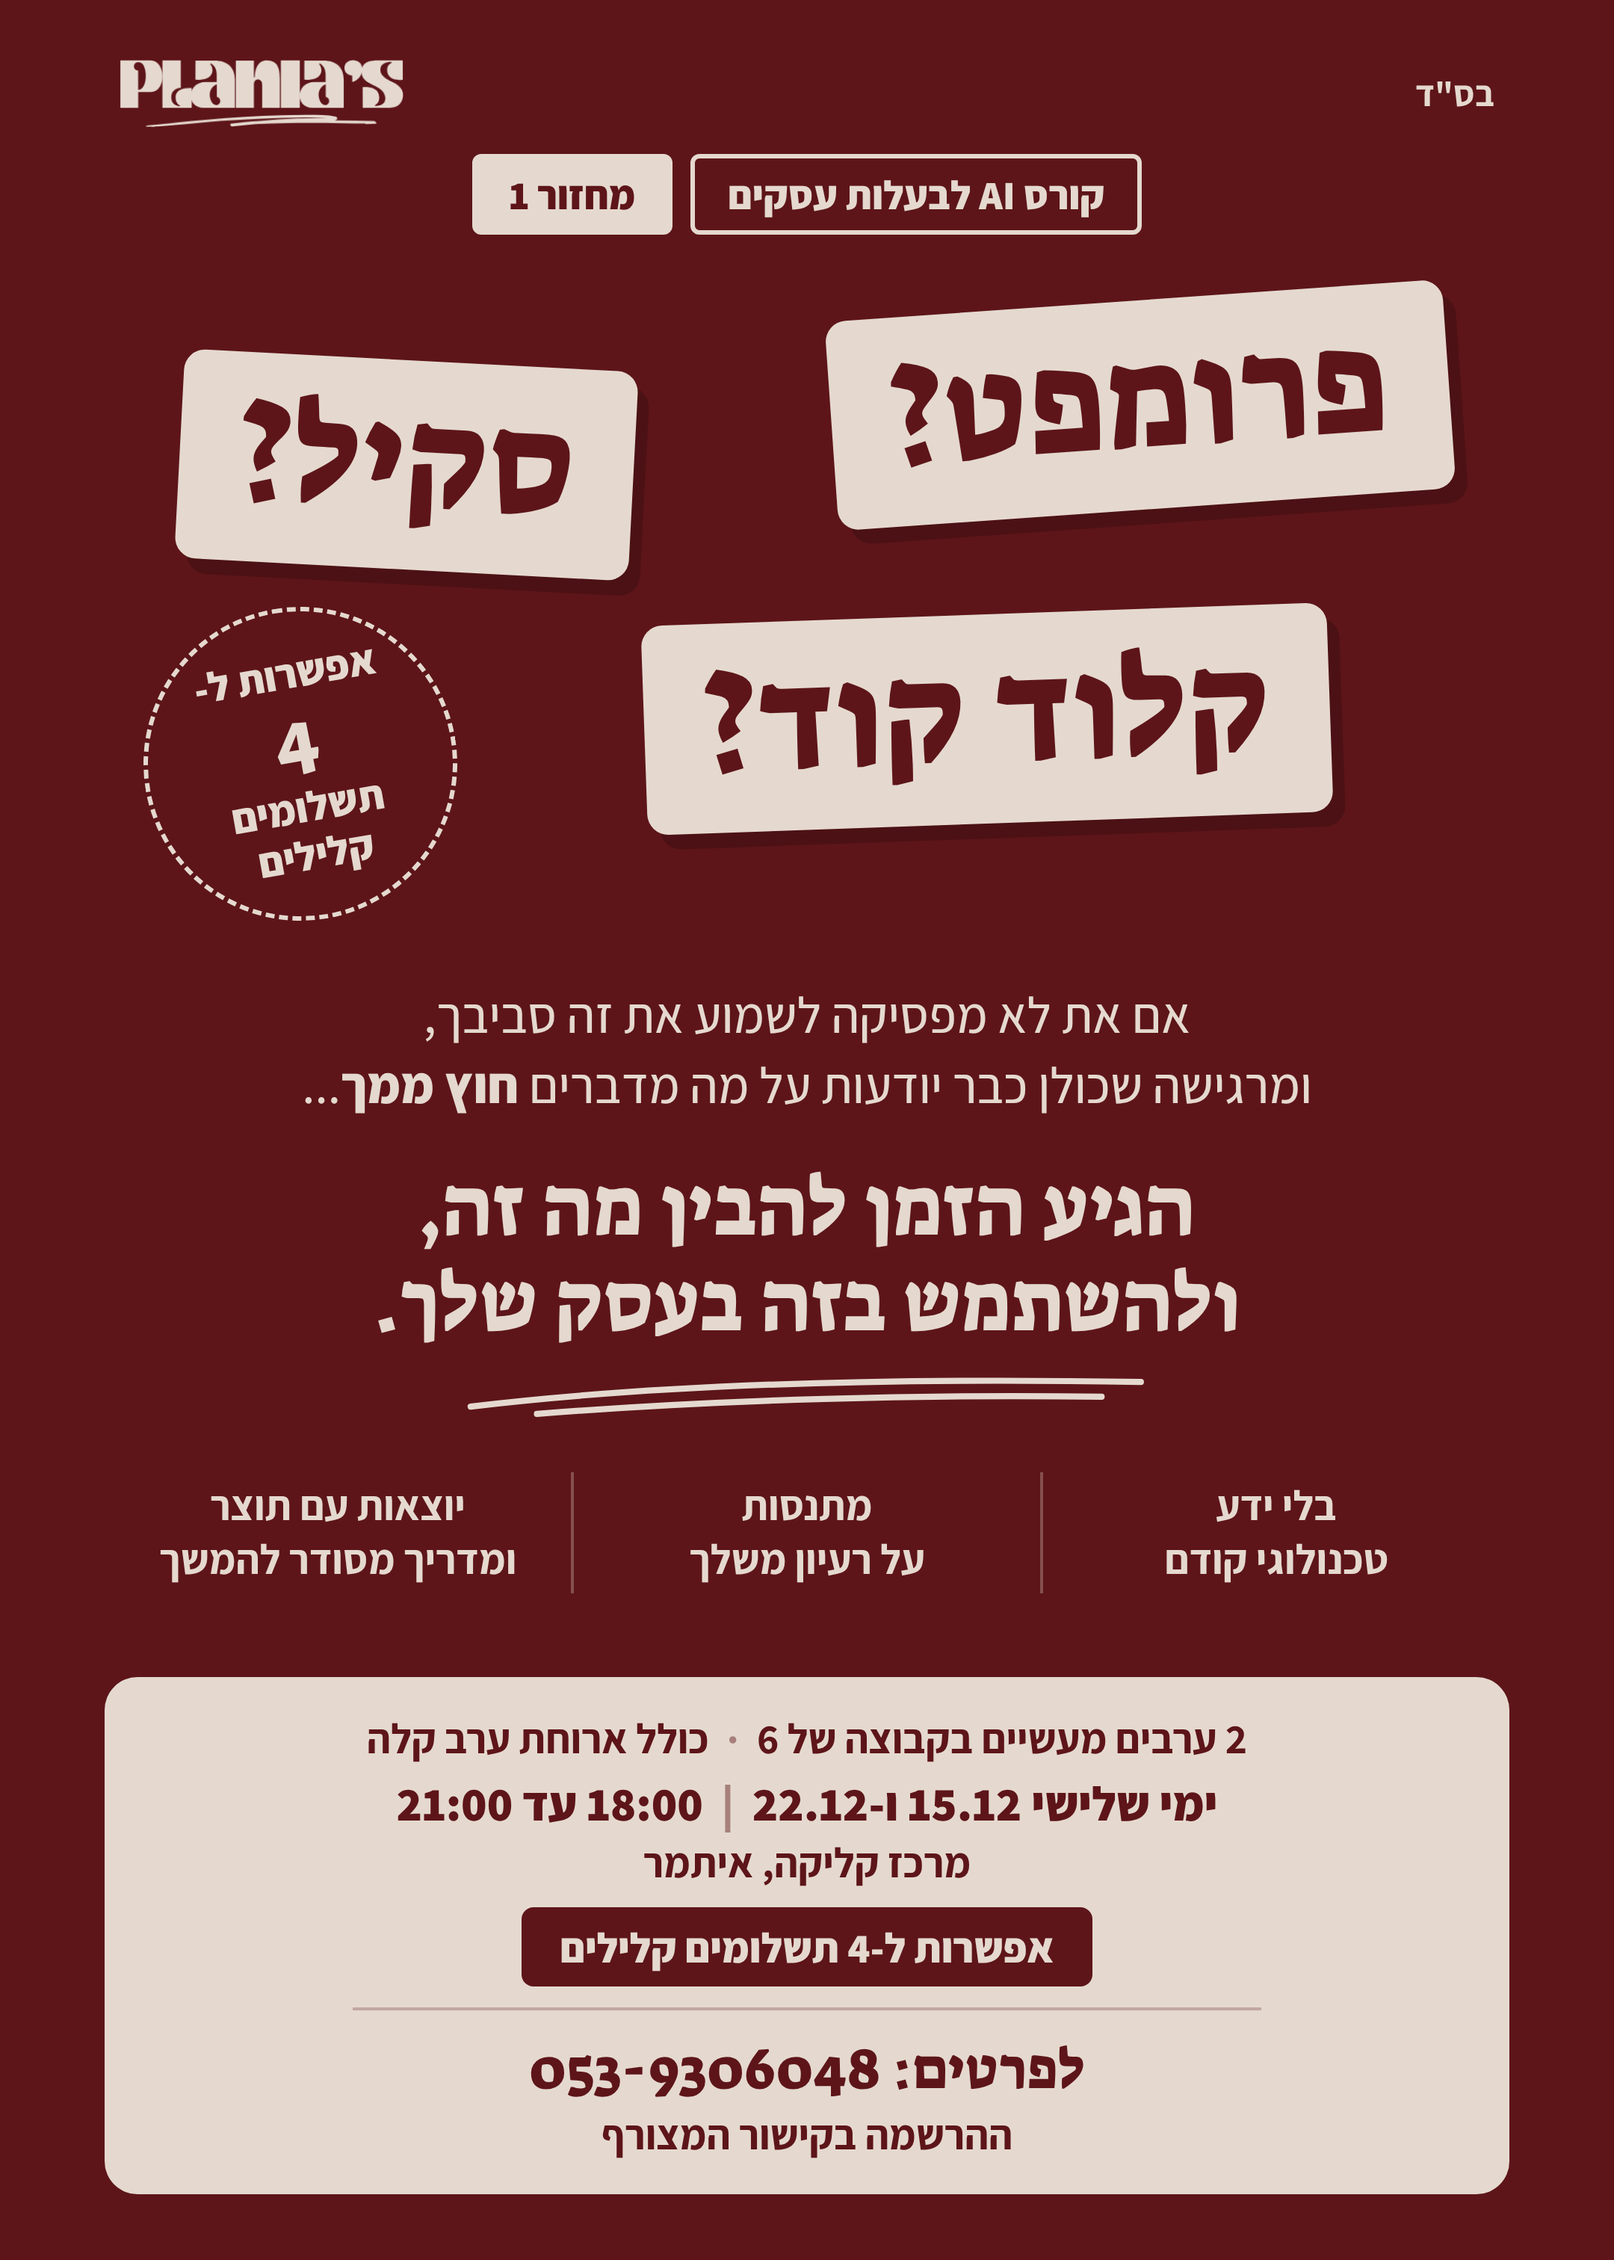
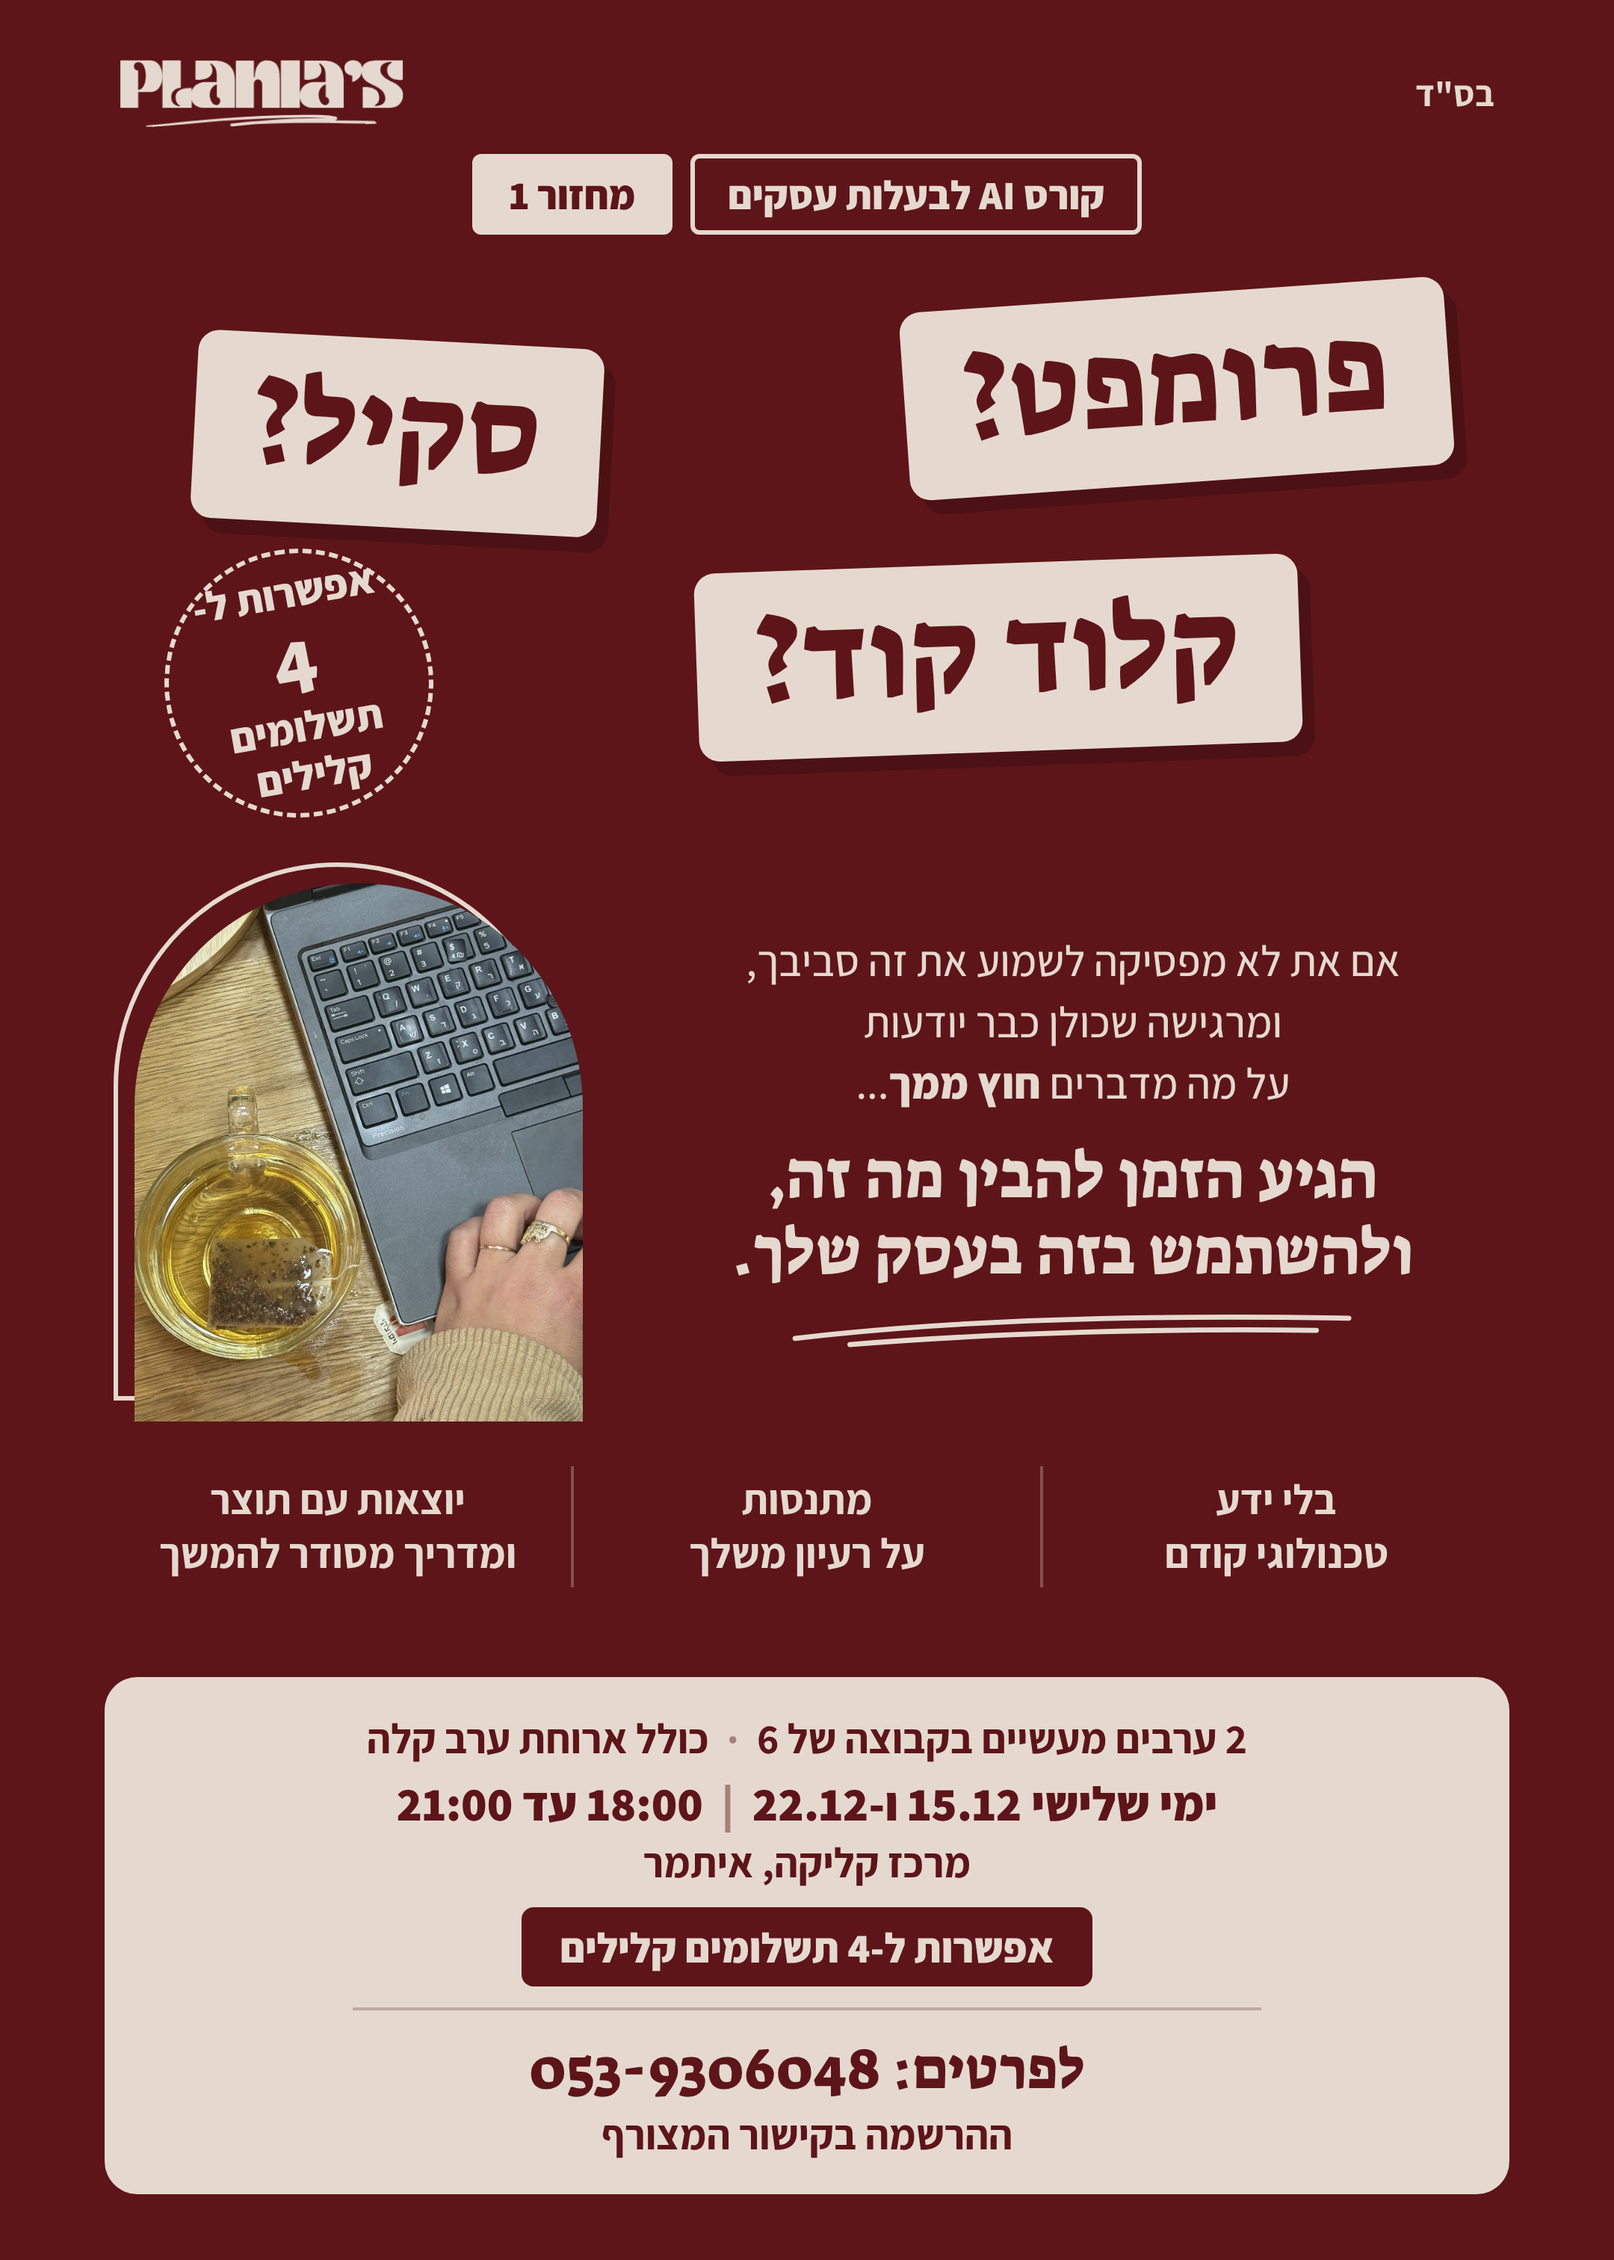
Buzzword flyer: add laptop and tea photo in arch
Claude-Session: https://claude.ai/code/session_01FAztRn3s498VxUBgDg5pS8

Changed region(s): [[0.062, 0.1243, 0.8995, 0.7149], [0.7134, 0.6528, 0.8685, 0.7149], [0.4343, 0.6528, 0.5583, 0.7149]]

diff --git a/marketing/course-ad/flyer-buzz.html b/marketing/course-ad/flyer-buzz.html
@@ -18,19 +18,24 @@ b{font-weight:800}
 .tag{border:3px solid var(--cream);padding:6px 22px;font-weight:800;font-size:27px;border-radius:6px}
 .tag.fill{background:var(--cream);color:var(--wine)}
 
-.words{position:relative;height:440px;margin-top:24px}
-.chip{position:absolute;font-family:'Suez One',serif;font-size:96px;line-height:1;background:var(--cream);color:var(--wine);padding:18px 40px 26px;border-radius:14px;box-shadow:8px 10px 0 rgba(0,0,0,.18)}
+.words{position:relative;height:370px;margin-top:20px}
+.chip{position:absolute;font-family:'Suez One',serif;font-size:82px;line-height:1;background:var(--cream);color:var(--wine);padding:18px 40px 26px;border-radius:14px;box-shadow:8px 10px 0 rgba(0,0,0,.18)}
 .c1{right:110px;top:20px;transform:rotate(-4deg)}
-.c2{left:120px;top:60px;transform:rotate(3deg)}
-.c3{right:190px;top:230px;transform:rotate(-2deg)}
-.seal{position:absolute;left:96px;top:225px;width:210px;height:210px;background:var(--wine);border-radius:50%;border:3px dashed var(--cream);display:flex;align-items:center;justify-content:center;transform:rotate(-10deg);font-weight:800;font-size:28px;line-height:1.15}
+.c2{left:130px;top:50px;transform:rotate(3deg)}
+.c3{right:210px;top:200px;transform:rotate(-2deg)}
+.seal{position:absolute;left:110px;top:190px;width:180px;height:180px;background:var(--wine);border-radius:50%;border:3px dashed var(--cream);display:flex;align-items:center;justify-content:center;transform:rotate(-10deg);font-weight:800;font-size:28px;line-height:1.15}
 .seal span{display:block;font-family:'Suez One',serif;font-size:50px;font-weight:400}
 
-.lead{font-size:34px;font-weight:500;line-height:1.4;margin-top:34px;padding:0 90px}
-.big{font-family:'Suez One',serif;font-size:56px;line-height:1.15;margin-top:26px}
-.swoosh{display:block;width:460px;height:38px;margin:8px auto 0}
+.lead{font-size:29px;font-weight:500;line-height:1.4}
+.big{font-family:'Suez One',serif;font-size:44px;line-height:1.15;margin-top:18px}
+.swoosh{display:block;width:380px;height:34px;margin:8px auto 0}
+.mid{display:flex;gap:56px;align-items:center;padding:30px 90px 0}
+.col{flex:1}
+.archwrap{position:relative;width:300px;height:360px;flex:none;margin-top:14px}
+.arch-line{position:absolute;inset:-14px 14px 14px -14px;border:3px solid var(--cream);border-radius:164px 164px 0 0}
+.arch{position:absolute;inset:0;border-radius:150px 150px 0 0;background:url(laptop-photo.jpg) 50% 75%/cover no-repeat}
 
-.points{display:flex;justify-content:center;padding:34px 70px 0}
+.points{display:flex;justify-content:center;padding:30px 70px 0}
 .points div{flex:1;font-size:28px;font-weight:700;line-height:1.3;padding:4px 18px}
 .points div+div{border-right:2px solid var(--soft)}
 
@@ -55,9 +60,14 @@ b{font-weight:800}
     <div class="seal"><div>אפשרות ל-<span>4</span>תשלומים<br>קלילים</div></div>
   </div>
 
-  <p class="lead">אם את לא מפסיקה לשמוע את זה סביבך,<br>ומרגישה שכולן כבר יודעות על מה מדברים <b>חוץ ממך</b>...</p>
-  <p class="big">הגיע הזמן להבין מה זה,<br>ולהשתמש בזה בעסק שלך.</p>
-  <svg class="swoosh" viewBox="0 0 560 46"><path d="M6 34 C140 18 320 10 552 14 M60 40 C210 28 380 24 520 26" fill="none" stroke="currentColor" stroke-width="5" stroke-linecap="round"/></svg>
+  <div class="mid">
+    <div class="col">
+      <p class="lead">אם את לא מפסיקה לשמוע את זה סביבך,<br>ומרגישה שכולן כבר יודעות<br>על מה מדברים <b>חוץ ממך</b>...</p>
+      <p class="big">הגיע הזמן להבין מה זה,<br>ולהשתמש בזה בעסק שלך.</p>
+      <svg class="swoosh" viewBox="0 0 560 46"><path d="M6 34 C140 18 320 10 552 14 M60 40 C210 28 380 24 520 26" fill="none" stroke="currentColor" stroke-width="5" stroke-linecap="round"/></svg>
+    </div>
+    <div class="archwrap"><div class="arch-line"></div><div class="arch" role="img" aria-label="יד על מקלדת של מחשב נייד ליד כוס תה"></div></div>
+  </div>
 
   <div class="points">
     <div>בלי ידע<br>טכנולוגי קודם</div>
